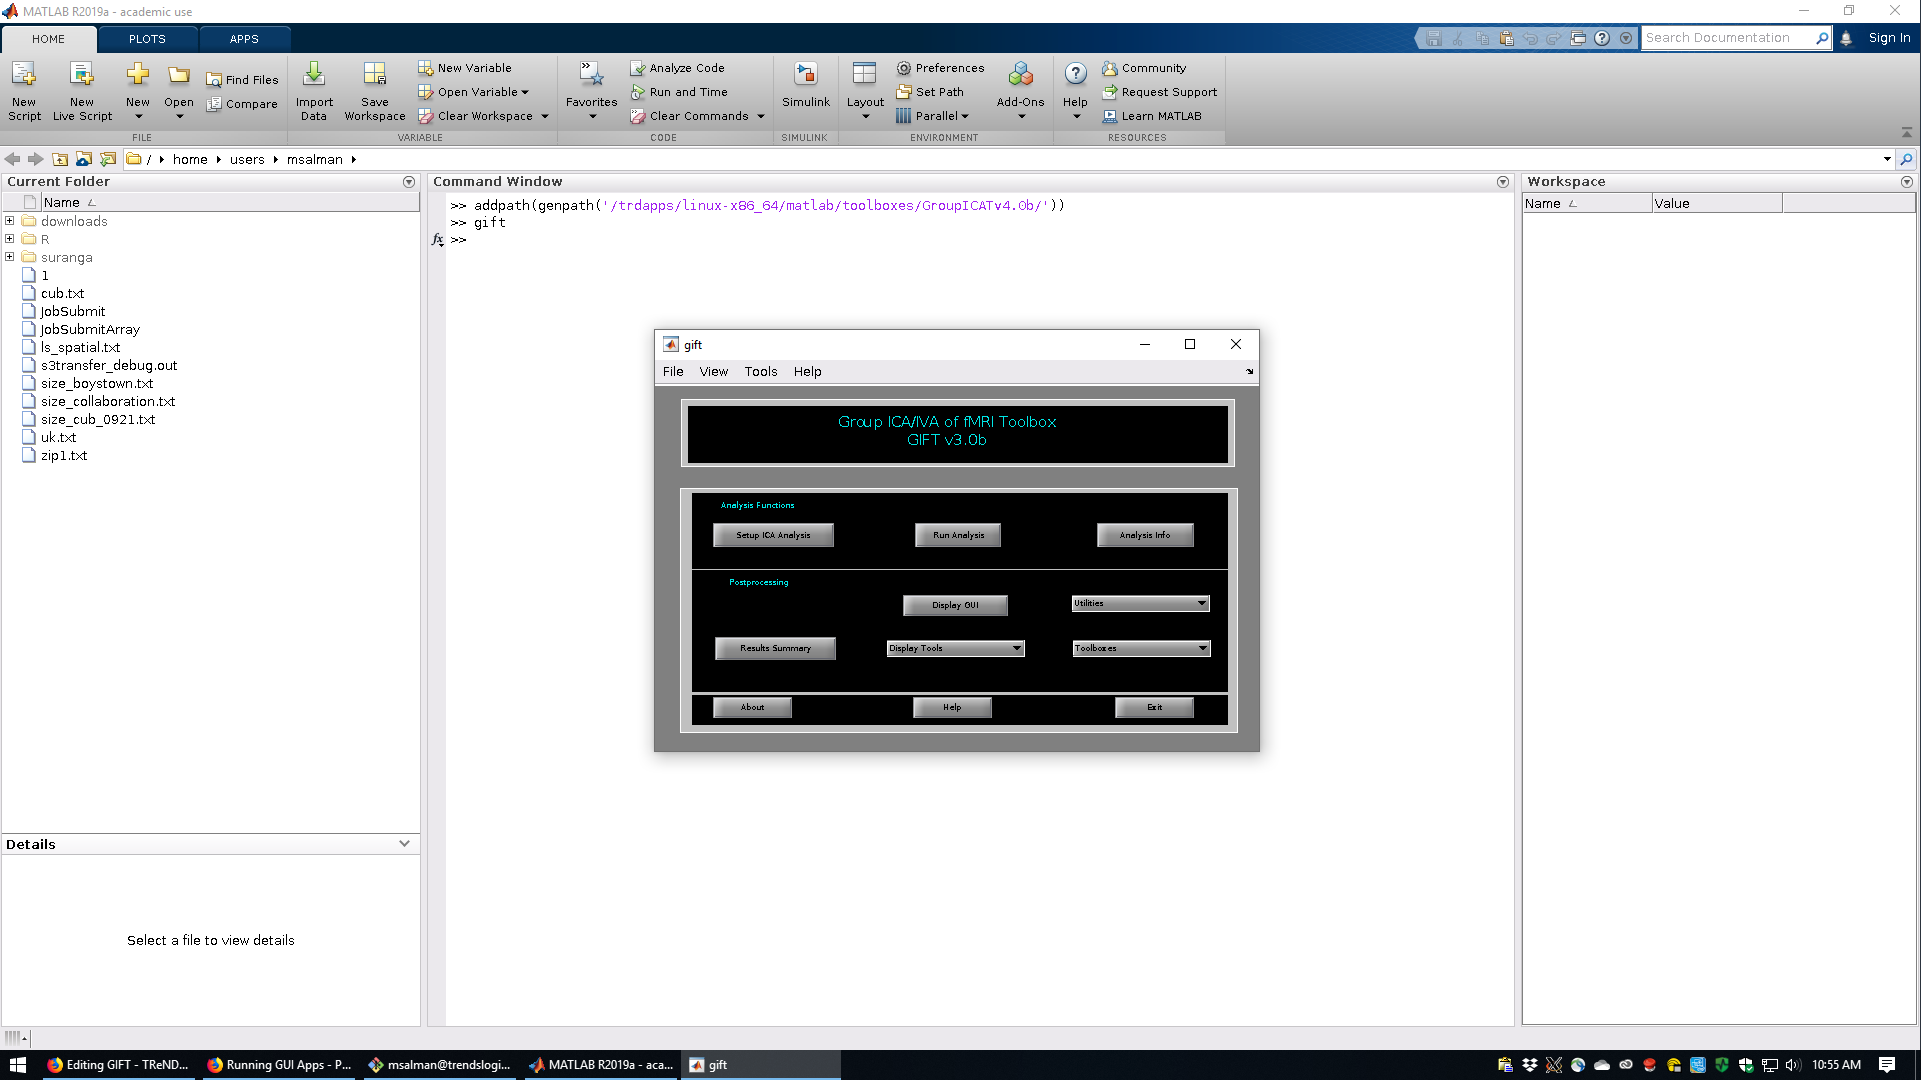
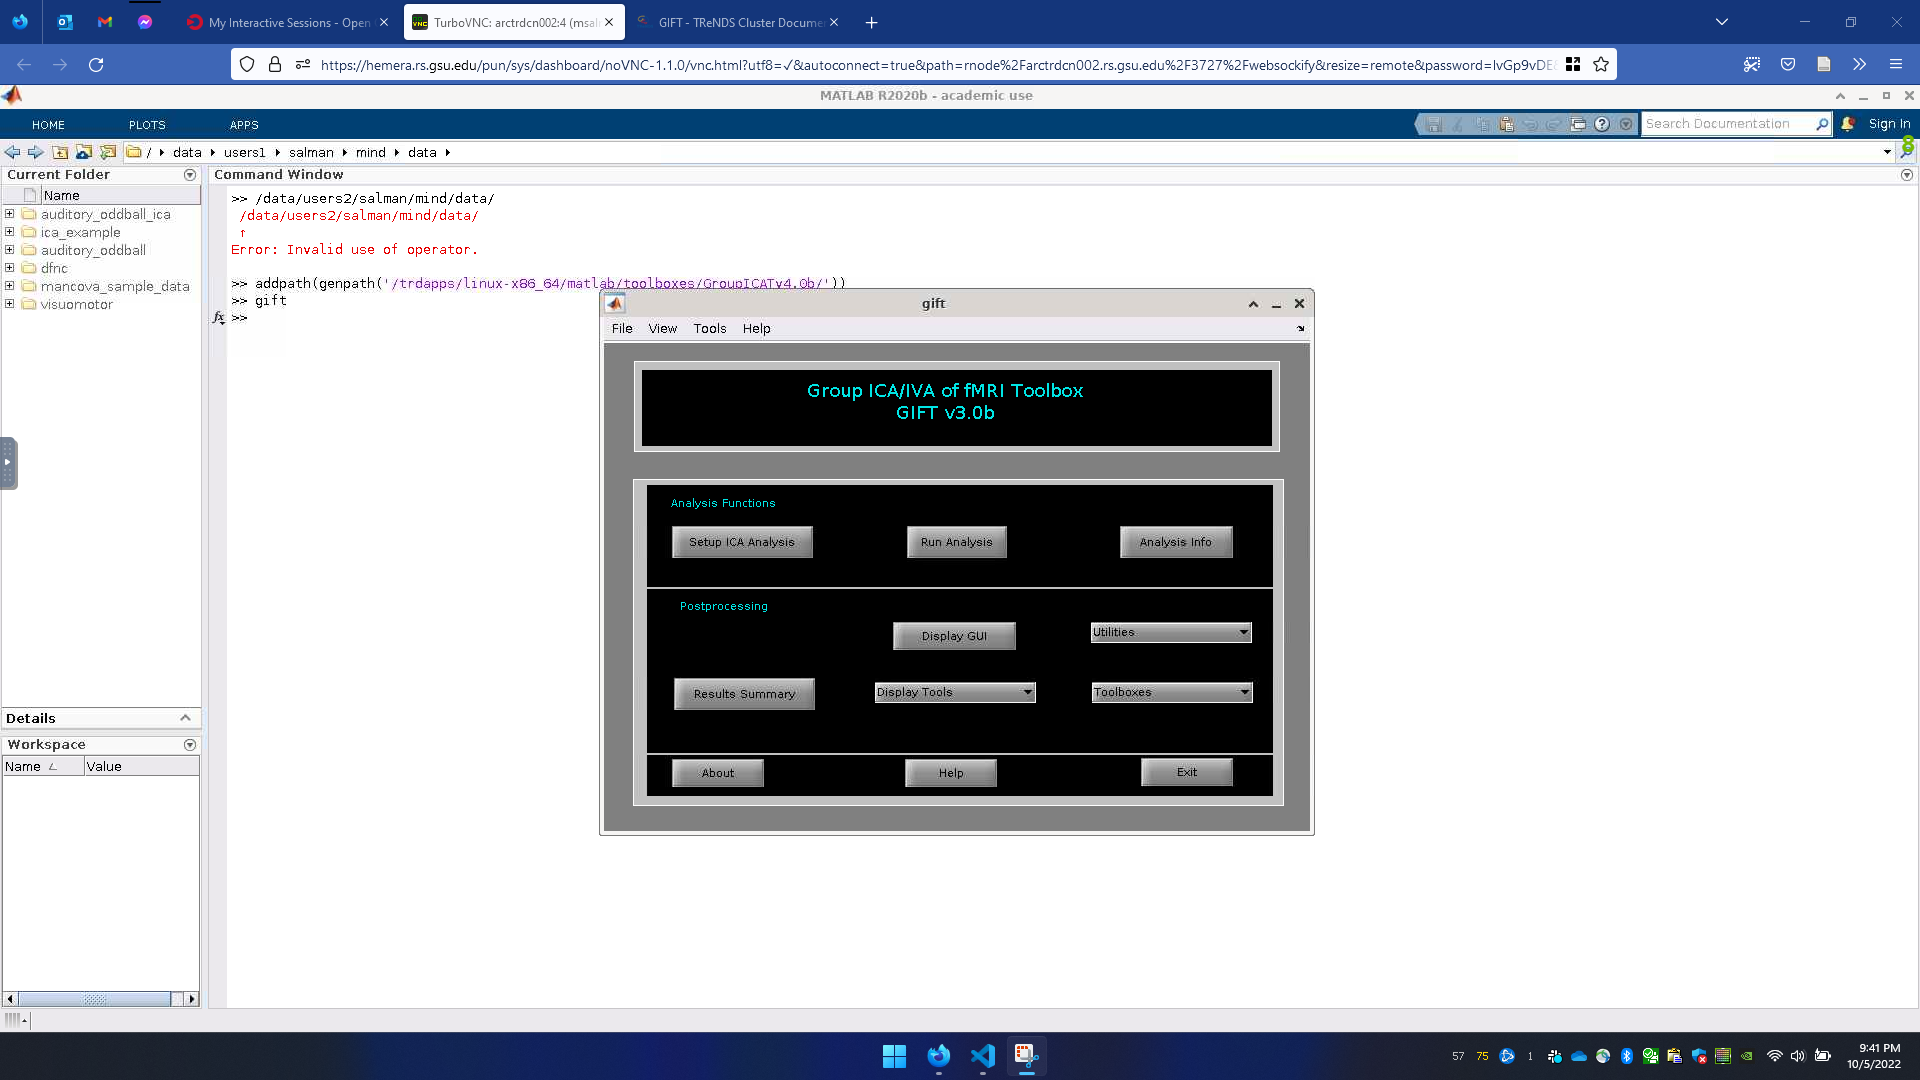
updated software pages

diff --git a/docs/Jupyter.md b/docs/Jupyter.md
@@ -3,105 +3,7 @@ layout: default
 title: Jupyter
 nav_order: 2
 parent: List of software
+last_modified_date: 10/5/2022 21:49
 ---
-## Jupyter as a SLURM job
 
-**Create an SBATCH `JobSubmit.sh` script**
-
-*on the login node*
-
-```
-#!/bin/bash
-#SBATCH -N 1
-#SBATCH -n 1
-#SBATCH -c 1
-#SBATCH --mem=10g
-#SBATCH -p qTRD
-#SBATCH -t 60
-#SBATCH -J <job name>
-#SBATCH -e error%A.err
-#SBATCH -o out%A.out
-#SBATCH -A <slurm_account_code>
-#SBATCH --mail-type=ALL
-#SBATCH --mail-user=<email address>
-#SBATCH --oversubscribe
-
-sleep 10s
-
-echo $HOSTNAME >&2 
-
-source <path to conda installation>/bin/activate <name/path of conda environment>
-
-jupyter lab --ip=0.0.0.0 --port=8888
-
-sleep 10s
-```
-
-Note: If port `8888` is not available, change it to something else
-higher, e.g., `8889, 8890` etc.
-
-**Submit the job**
-
-*on the login node*
-
-`$ sbatch JobSubmit.sh`
-
-**Find the allocated node and Jupyter token/URL**
-
-*on the login node*
-
-Wait a few minutes for Jupyter to start. Then observe the log files
-`out`<jobid>`.out, error`<jobid>`.err`:
-
-```
-$ cat *<jobid>*
-trendscn010.rs.gsu.edu
-[I 15:47:14.720 LabApp] JupyterLab extension loaded from /data/users2/salman/tools/miniconda4/envs/py37/lib/python3.7/site-packages/jupyterlab
-[I 15:47:14.720 LabApp] JupyterLab application directory is /data/users2/salman/tools/miniconda4/envs/py37/share/jupyter/lab
-[I 15:47:14.763 LabApp] Serving notebooks from local directory: /data/users2/salman/public/jupyter
-[I 15:47:14.763 LabApp] Jupyter Notebook 6.1.6 is running at:
-[I 15:47:14.763 LabApp] [http://trendscn010.rs.gsu.edu:8888/?token=ba96539d0781ca6d191db39ce01cea4256def026d5da4744](http://trendscn010.rs.gsu.edu:8888/?token=ba96539d0781ca6d191db39ce01cea4256def026d5da4744)
-[I 15:47:14.763 LabApp]  or [http://127.0.0.1:8888/?token=ba96539d0781ca6d191db39ce01cea4256def026d5da4744](http://127.0.0.1:8888/?token=ba96539d0781ca6d191db39ce01cea4256def026d5da4744)
-[I 15:47:14.763 LabApp] Use Control-C to stop this server and shut down all kernels (twice to skip confirmation).
-[W 15:47:14.888 LabApp] No web browser found: could not locate runnable browser.
-[C 15:47:14.889 LabApp]
-
-    To access the notebook, open this file in a browser:
-        [file:///home/users/msalman/.local/share/jupyter/runtime/nbserver-254872-open.html](file:///home/users/msalman/.local/share/jupyter/runtime/nbserver-254872-open.html)
-    Or copy and paste one of these URLs:
-        [http://trendscn010.rs.gsu.edu:8888/?token=ba96539d0781ca6d191db39ce01cea4256def026d5da4744](http://trendscn010.rs.gsu.edu:8888/?token=ba96539d0781ca6d191db39ce01cea4256def026d5da4744)
-     or [http://127.0.0.1:8888/?token=ba96539d0781ca6d191db39ce01cea4256def026d5da4744](http://127.0.0.1:8888/?token=ba96539d0781ca6d191db39ce01cea4256def026d5da4744)
-[I 15:47:52.321 LabApp] 302 GET /?token=ba96539d0781ca6d191db39ce01cea4256def026d5da4744 (10.245.10.57) 0.970000ms
-[W 15:47:53.938 LabApp] Could not determine jupyterlab build status without nodejs
-```
-
-As we can see, the job is allocated on `trendscn010.rs.gsu.edu` and the
-URL is
-[`http://127.0.0.1:8888/?token=ba96539d0781ca6d191db39ce01cea4256def026d5da4744`](http://127.0.0.1:8888/?token=ba96539d0781ca6d191db39ce01cea4256def026d5da4744).
-
-**Create an SSH tunnel**
-
-*On your local machine*
-
-`$ ssh -L8888:trendscn010.rs.gsu.edu:8888 <campusID>@trendscn017.rs.gsu.edu`
-
-Make sure to change `trendscn010.rs.gsu.edu` and `8888` to the
-appropriate host/port.
-
-**Access Jupyter**
-
-*On your local machine*
-
-Open a browser window and browse to the Jupyter URL noted previously.
-
-**Cleaning up**
-
-Make sure to shut down Jupyter from the browser once you are done. If
-that is not possible for some reason and the resource is still
-allocated, you can use one of the following commands on the login node
-to end the job:
-
-```
-$ scancel <jobid>
-$ scancel -u <campusID>
-```
+To use Jupyter, select Jupyter Lab from under TReNDS interactive apps on [https://hemera.rs.gsu.edu/](https://hemera.rs.gsu.edu/).

diff --git a/docs/GIFT.md b/docs/GIFT.md
@@ -3,6 +3,7 @@ layout: default
 title: GIFT
 nav_order: 2
 parent: List of software
+last_modified_date: 10/5/2022 21:49
 ---
 <details open markdown="block">
   <summary>
@@ -13,34 +14,14 @@ parent: List of software
 {:toc}
 </details>
 
-GIFT is an application supported by the NIH under grant 1RO1EB000840 to
-Dr. Vince Calhoun and Dr. Tulay Adali. It is a MATLAB toolbox which
-implements multiple algorithms for independent component analysis and
-blind source separation of group (and single subject) functional
-magnetic resonance imaging data.
+GIFT is an application supported by the NIH under grant 1RO1EB000840 to Dr. Vince Calhoun and Dr. Tulay Adali. 
+It is a MATLAB toolbox which implements multiple algorithms for independent component analysis and blind source separation of group (and single subject) functional magnetic resonance imaging data.
 
 ## Using GIFT GUI
 
 ### Run Matlab GUI
 
-First, [prepare to run GUI
-application](Running_GUI_applications). Then run the Matlab
-GUI using one of the following:
-
-Method 1 (via SLURM X11):
-
-```
-$ module load matlab/R2022a
-$ srun -p qTRDEV -A <slurm_account_code> -v -n1 -c1 --mem=10g --export=TERM,HOME --pty --x11 /apps/Framework/MATLAB/R2019b/bin/matlab
-```
-
-Method 2 (via interactive mode):
-
-```
-$ srun -p qTRDEV -A <slurm_account_code> -v -n1 -c1 --mem=10g --pty --x11 /bin/bash 
-$ module load matlab/R2022a
-$ matlab &
-```
+To use Matlab GUI, select Matlab from the TReNDS interactive apps on [https://hemera.rs.gsu.edu/](https://hemera.rs.gsu.edu/).
 
 ### Add GIFT path
 
@@ -50,9 +31,7 @@ $ matlab &
 
 `>> gift`
 
-<figure>
-<img src="Gift.png" title="Gift.png" width="800" alt="Gift.png" /><figcaption aria-hidden="true">Gift.png</figcaption>
-</figure>
+![Gift]({{ site.baseurl }}/assets/images/gift.png)
 
 ### Example analysis: Group ICA on auditory oddball data
 

diff --git a/docs/Freesurfer.md b/docs/Freesurfer.md
@@ -3,6 +3,7 @@ layout: default
 title: Freesurfer
 nav_order: 2
 parent: List of software
+last_modified_date: 10/5/2022 21:49
 ---
 FreeSurfer is a software package for the analysis and visualization of
 structural and functional neuroimaging data from cross-sectional or
@@ -10,13 +11,16 @@ longitudinal studies.
 
 ```
 # Login to the cluster
-$ ssh -XY <campusID>@trendslogin.gsu.edu
+$ ssh -XY <campusID>@{{site.data.trends.login_node}}
 
-# Start an interactive bash session with --x11 option
-# You also need to run an X-window server on your machine.
-$ srun -p qTRD -A <slurm_account_code> -v -n1 -c1 --mem=10g -t60 --pty --x11 /bin/bash
+# Start an interactive bash session
+$ srun -p qTRD -A <slurm_account_code> -v -n1 -c1 --mem=10g -t60 --pty /bin/bash
 
 # Load the Freesurfer module and setup environment
-$ module load Image_Analysis/Freesurfer
+$ module load freesurfer/7.3.2
 $ source $FREESURFER_HOME/SetUpFreeSurfer.sh
 ```
+
+To use any GUI, select TReNDS Interactive desktop from under TReNDS interactive apps on [https://hemera.rs.gsu.edu/](https://hemera.rs.gsu.edu/). 
+Once the session is launched, open a terminal and run the above commands for loading the module and setup. 
+Then you should be able to use any GUI application.

diff --git a/docs/GPU_computing.md b/docs/GPU_computing.md
@@ -3,6 +3,7 @@ layout: default
 title: GPU Computing
 nav_order: 2
 parent: List of software
+last_modified_date: 10/5/2022 21:49
 ---
 <details open markdown="block">
   <summary>
@@ -33,10 +34,10 @@ parent: List of software
 
 ## Special nodes
 
-| Nodes                     | CPUs | Memory | GPUs         | Purpose                   |
-|---------------------------|------|--------|--------------|---------------------------|
-| trendsgndev101.rs.gsu.edu | 4    | 62GB   | TITAN X:2    | GPU development & testing |
-| trendsagn019.rs.gsu.edu   | 64   | 512GB  | gpu:gforce:1 | GPU development & testing |
+| Nodes                         | CPUs | Memory | GPUs         | Purpose                   |
+|-------------------------------|------|--------|--------------|---------------------------|
+| {{site.data.trends.dev_node}} | 4    | 62GB   | TITAN X:2    | GPU development & testing |
+| trendsagn019.rs.gsu.edu       | 64   | 512GB  | gpu:gforce:1 | GPU development & testing |
 
 ## Allocating GPUs in SLURM
 
@@ -64,7 +65,7 @@ See examples below.
 #SBATCH --mail-type=ALL
 #SBATCH --mail-user=<email address>
 
-sleep 5s
+sleep 10s
 
 echo $HOSTNAME >&2
 

diff --git a/docs/FSL.md b/docs/FSL.md
@@ -3,39 +3,9 @@ layout: default
 title: FSL
 nav_order: 2
 parent: List of software
+last_modified_date: 10/5/2022 21:35
 ---
 FSL is a comprehensive library of analysis tools for FMRI, MRI and DTI
 brain imaging data.
 
-```
-# Login to the cluster
-$ ssh -XY <campusID>@trendslogin.gsu.edu
-
-# Start an interactive bash session with --x11 option===
-# You also need to run an X-window server on your machine.
-$ srun -p qTRD -A <slurm_account_code> -v -n1 -c1 --mem=10g -t60 --pty --x11 /bin/bash
-
-# Find the appropriate version by running module avail command 
-$ module avail fsl
-
-# Load the FSL module
-$ module load Image_Analysis/FSL5.0.11
-
-# Run FSL
-$ fsl
-```
-
-## Alternate instruction
-
-If the above is not working or buggy, try the following instead.
-
-```
-FSLDIR=/trdapps/linux-x86_64/bin/fsl
-. ${FSLDIR}/etc/fslconf/fsl.sh
-PATH=${FSLDIR}/bin:${PATH}
-export FSLDIR PATH
-
-# Run FSL
-$ fsl
-$ fsleyes
-```
+To use FSL GUI, select FSL from the TReNDS interactive apps on [https://hemera.rs.gsu.edu/](https://hemera.rs.gsu.edu/).

diff --git a/docs/Python.md b/docs/Python.md
@@ -122,9 +122,31 @@ $ ipython
 [$] whos
 ```
 
-## GPU and TensorFlow
+## GPU
 
-[TBD]
+To use GPUs in your Python scripts, first create an environment using any of the methods described above.
+Then go to [https://pytorch.org/get-started/locally/](https://pytorch.org/get-started/locally/) and configure your installation, including CUDA toolkit.
+Following is an example of the process.
+
+```
+$ ssh {{site.data.trends.login_node}}
+$ module load miniconda3/4.12.0
+$ conda init
+
+# Log back in to have base env loaded.
+$ ssh {{site.data.trends.login_node}}
+
+# start an interactive session
+$ srun -p qTRDGPUH -A trends53c17 -v -n1 --pty -c3 --mem=60g --gres=gpu:V100:1 /bin/bash
+
+# set up new environment
+$ module load miniconda3/4.12.0
+$ conda create -n testenv1 python=3.9
+$ conda activate testenv1
+
+# install GPU essentials for PyTorch
+$ conda install pytorch torchvision torchaudio cudatoolkit=11.6 -c pytorch -c conda-forge
+```
 
 ## More information
 

diff --git a/docs/AFNI.md b/docs/AFNI.md
@@ -3,25 +3,10 @@ layout: default
 title: AFNI
 nav_order: 2
 parent: List of software
+last_modified_date: 10/5/2022 21:49
 ---
 Analysis of Functional NeuroImages (AFNI) is an open-source environment
 for processing and displaying functional MRI data—a technique for
 mapping human brain activity.
 
-### Login to the cluster
-
-`$ ssh -XY <campusID>@trendslogin.gsu.edu`
-
-### Start an interactive bash session with `--x11` option
-
-**You also need to run an X-window server on your machine.**
-
-`$ srun -p qTRDEV -A <slurm_account_code> -v -n1 --mem=10g -t60 --pty --x11 /bin/bash`
-
-### Load the `AFNI` module
-
-`$ module load Image_Analysis/AFNI`
-
-### Run `AFNI`
-
-`$ afni &`
+To use AFNI GUI, select AFNI from the TReNDS interactive apps on [https://hemera.rs.gsu.edu/](https://hemera.rs.gsu.edu/).
